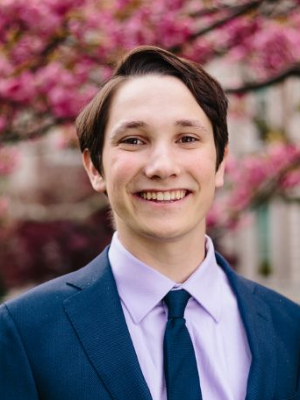
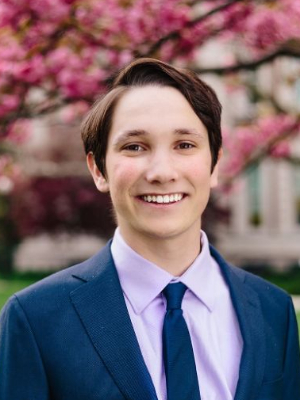
updated jonny/rm liza/update bio for alan

diff --git a/index.html b/index.html
@@ -190,9 +190,9 @@
 								<section>
 									<!--
 									<span class="icon style2 major fa-diamond"></span>-->
-									<h3>Meghna Mehta<br>VP of Communications</h3>
-									<a href="images/headshots/meghna.jpg" class="image">
-										<img src="images/headshots/meghna.jpg" width="240" height="320"/>
+									<h3>Andre O'Quinn<br>VP of Communications</h3>
+									<a href="images/headshots/andre.jpg" class="image">
+										<img src="images/headshots/andre.jpg" width="240" height="320"/>
 									</a>
 									<!--<p>Vice President of Communication<br>CC 2021<br>Computer Science</p>-->
 									<p>Meghna Mehta is a sophomore in Barnard College majoring in computer science. She’s excited to work as a SWE intern at Salesforce for a second summer in a row!</p>
@@ -213,7 +213,7 @@
 									<a href="images/headshots/alan.jpg" class="image">
 										<img src="images/headshots/alan.jpg" width="240" height="320"/>
 									</a>
-									<p>Alan is a sophomore in Columbia Engineering studying Applied Math. He hails from Bethesda, Maryland and is an avid aviation enthusiast. He is considering pursuing a career in the financial service industry.</p>
+									<p>Alan is a sophomore in Columbia Engineering studying Applied Math. He hails from Bethesda, Maryland and is an avid aviation enthusiast. He will being joining Morgan Stanley's Credit Complex Strats team next summer.</p>
 								</section>
 							</div>
 						</div>
@@ -247,15 +247,6 @@
 							</div>
 							<h3>Mu Class</h3>
 							<div class="items style1 medium onscroll-fade-in">
-								<section>
-									<!--
-									<span class="icon style2 major fa-diamond"></span>-->
-									<h3>Liza Bukingolts</h3>
-									<a href="images/headshots/liza.png" class="image">
-										<img src="images/headshots/liza.jpg" width="240" height="320"/>
-									</a>
-									<p>Barnard 2020<br>Economics, History</p>
-								</section>
 								<section>
 									<!--
 									<span class="icon style2 major fa-diamond"></span>-->
@@ -788,7 +779,7 @@
 									<a href="images/headshots/jonathana.jpg" class="image">
 										<img src="images/headshots/jonathana.jpg" width="240" height="320"/>
 									</a>
-									<p>JTS/GS 2021<br>Financial Economics</p>
+									<p>JTS/GS 2022<br>Financial Economics/Modern Judaic Studies</p>
 								</section>
 								<section>
 									<!--
